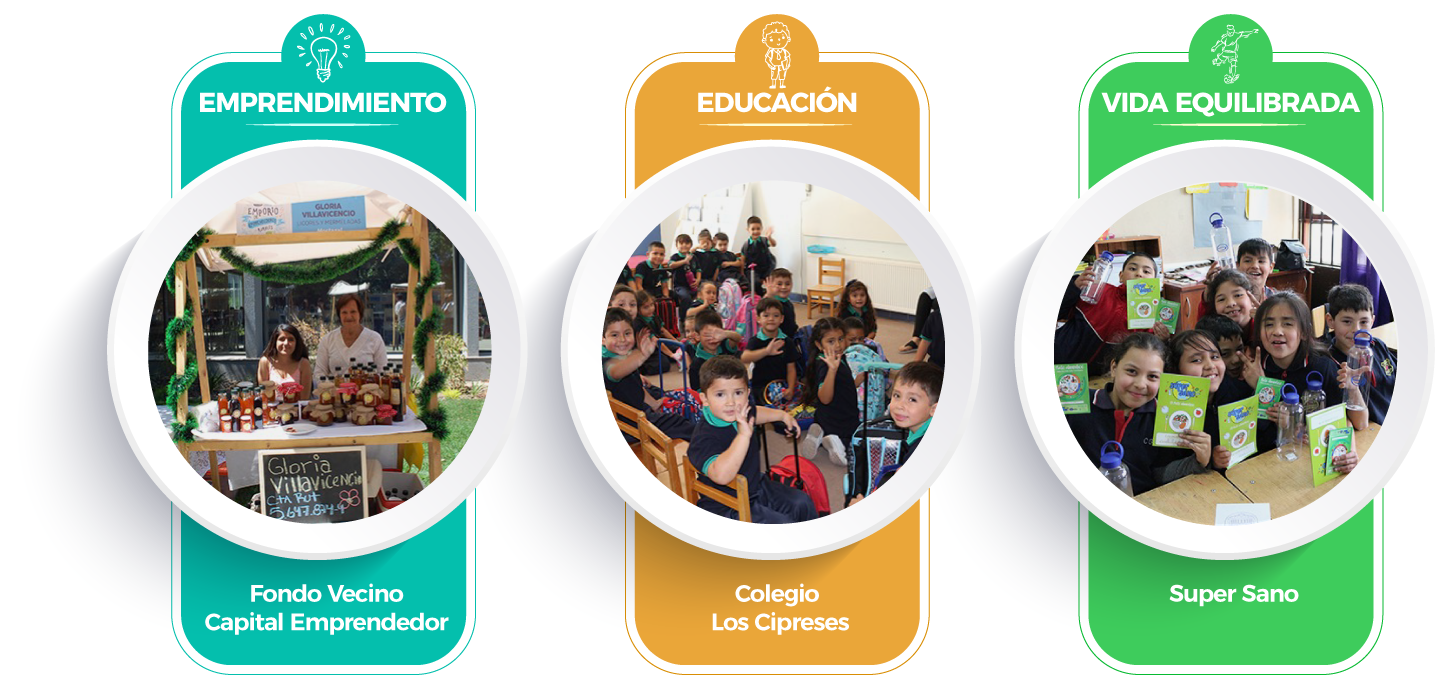
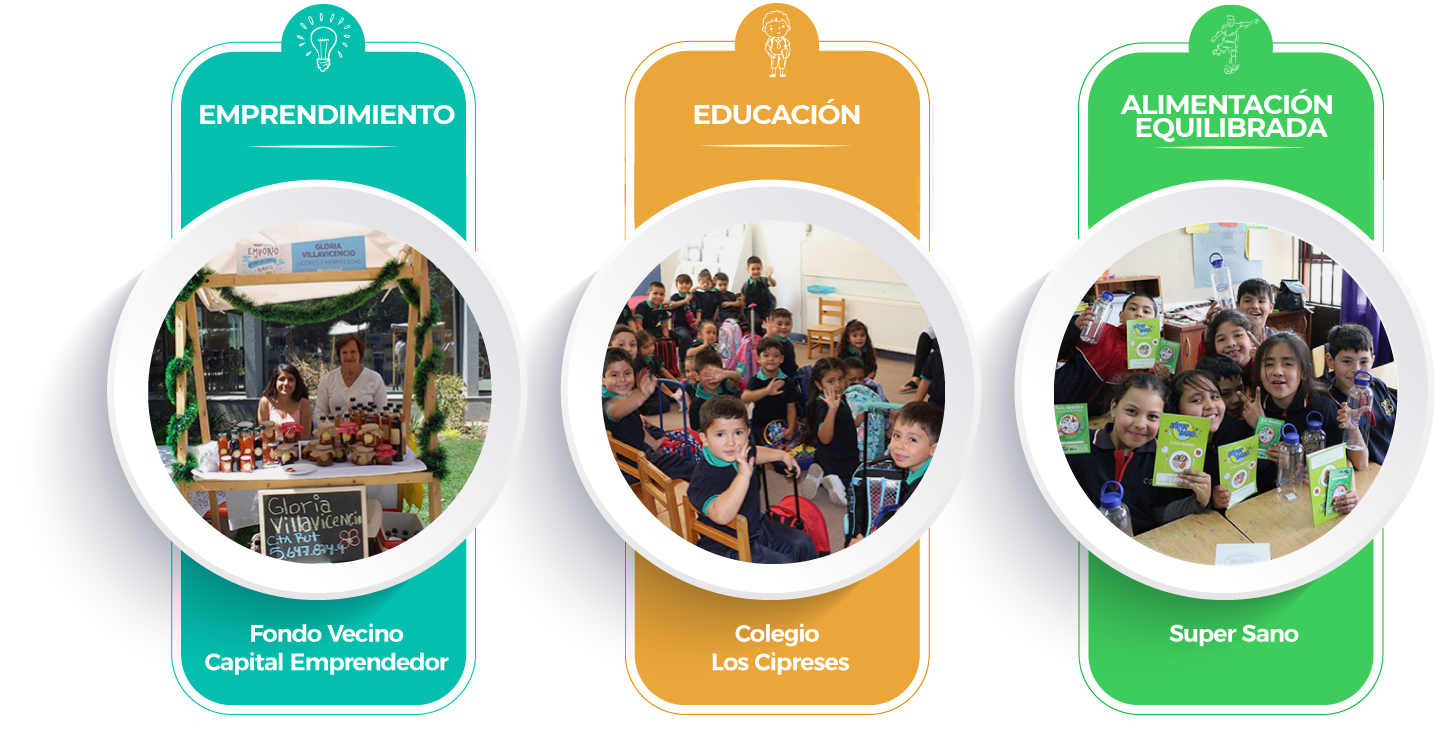
Cambios y ajustes 2022 + Disable download button & Right click en videos

diff --git a/src/components/Organism/ProduccionResponsable/Tratamiento/index.js b/src/components/Organism/ProduccionResponsable/Tratamiento/index.js
@@ -63,7 +63,12 @@ const ProcesosTratamiento = () => {
                   className={classes.gridContainer}
                 >
                   <ReactPlayer
-                    url="https://skyviewagrosuper.com/videos/produccion_responsable/ProduccionResponsable.mp4"
+                    // Disable download button
+                    config={{ file: { attributes: { controlsList: 'nodownload' } } }}
+
+                    // Disable right click
+                    onContextMenu={e => e.preventDefault()}                  
+                    url="https://skyviewagrosuper.com/videos/produccion_responsable/PRODUCCION_RESPONSABLE.mp4"
                     width="100%"
                     height="auto"
                     
@@ -71,7 +76,7 @@ const ProcesosTratamiento = () => {
                     controls
                   />
                   <Typography variant="h4" align="center" gutterBottom  className={classes.subtitle}>
-                    Nuestro objetico es fomentar el cuidado del medio ambiente y el usto eficiente de los recursos naturales. Incorporamos la mejor tecnología para cumplir con los más altos estándares y continuar produciendo de manera sustentable.
+                    Nuestro objetivo es fomentar el cuidado del medio ambiente y el usto eficiente de los recursos naturales. Incorporamos la mejor tecnología para cumplir con los más altos estándares y continuar produciendo de manera sustentable.
                   </Typography>
               </Grid>
               

diff --git a/src/components/Organism/ProduccionResponsable/Agua-2/index.js b/src/components/Organism/ProduccionResponsable/Agua-2/index.js
@@ -1,6 +1,7 @@
 import React from "react";
 import { Grid, Box, Typography, makeStyles } from "@material-ui/core";
 import BorderWrapper from "../../../Atoms/BorderWrapper";
+import reagua from "../../../../assets/re_agua.png";
 import cifras2 from "../../../../assets/cifras_sl7.png";
 import ReactPlayer from "react-player";
 
@@ -67,17 +68,19 @@ const Agua2 = () => {
                 alignItems='center'
                 justifyContent='center'
               >
-                <Grid item md={6}>
-                <ReactPlayer
-                      url='https://skyviewagrosuper.com/videos/produccion_responsable/REUTILIZACIONDELAGUA-2.mp4'
-                      width='100%'
-                      height='auto'
-                      className={classes.videoContainer}
-                      playing
-                      controls
-                    />
+                <Grid item md={5}>
+                  <Box
+                    component="img"
+                    alignItems="center"
+                    justifyContent="center"
+                    display="flex"
+                    marginLeft={"75px"}
+                    height="auto"
+                    src={reagua}
+                    width="90%"
+                  />
                 </Grid>
-                <Grid item md={6}>
+                <Grid item md={7}>
                   <Box component='img'  width="100%" src={cifras2} />
                 </Grid>
                 

diff --git a/src/components/Organism/Comunidad/VidaEquilibrada/index.js b/src/components/Organism/Comunidad/VidaEquilibrada/index.js
@@ -25,7 +25,7 @@ const useStyles = makeStyles((theme) => ({
     borderRadius:50,
     zIndex: -1,
   },
-  video:{
+  video: {
     borderRadius: 20,
     overflow: "hidden",
   },
@@ -47,16 +47,23 @@ const VidaEquilibrada = () => {
           <Grid container spacing={3} item>
             <Grid item xs={4}>
               <ReactPlayer
+                // Disable download button
+                config={{ file: { attributes: { controlsList: 'nodownload' } } }}
+
+                // Disable right click
+                onContextMenu={e => e.preventDefault()}
+                className={classes.video}
                 url="https://skyviewagrosuper.com/videos/comunidad/Super%20Sano%20Baja.mp4"
                 width="100%"
+                height="auto"
                 loop={true}
                 playing={true}
-                className={classes.video}
+                controls
               />
             </Grid>
             <Grid item xs={5} container direction="column">
             <Typography variant="h5" className={classes.tittle2}>
-                Vida Saludable
+                Vida Equilibrada
               </Typography>
               <Typography variant="h5" className={classes.tittle}>
                 Súper Sano

diff --git a/src/components/Organism/ProduccionResponsable/Eficiencia/index.js b/src/components/Organism/ProduccionResponsable/Eficiencia/index.js
@@ -136,6 +136,11 @@ const Eficiencia = () => {
               >
                 <Grid item md={6}>
                 <ReactPlayer
+                       // Disable download button
+                       config={{ file: { attributes: { controlsList: 'nodownload' } } }}
+
+                       // Disable right click
+                       onContextMenu={e => e.preventDefault()}                
                       url='https://skyviewagrosuper.com/videos/produccion_responsable/BIOMASA.mp4'
                       width='100%'
                       height='auto'
@@ -173,6 +178,11 @@ const Eficiencia = () => {
                     </Typography>
                   </div>  
                   <ReactPlayer
+                      // Disable download button
+                      config={{ file: { attributes: { controlsList: 'nodownload' } } }}
+
+                      // Disable right click
+                      onContextMenu={e => e.preventDefault()}                  
                       url='https://skyviewagrosuper.com/videos/produccion_responsable/BIOMASA%20BAJA.mp4'
                       width='50%'
                       height='auto'

diff --git a/src/components/Organism/Comunidad/Comunidades/index.js b/src/components/Organism/Comunidad/Comunidades/index.js
@@ -22,7 +22,7 @@ const useStyles = makeStyles((theme) => ({
   subtittle: {
     color: "#d98a08",
     textAlign: "center",
-    fontSize: 25,
+    fontSize: 30,
     marginBottom: 20,
   },
   icontext: {
@@ -44,7 +44,7 @@ const useStyles = makeStyles((theme) => ({
   line: {
     height: 300,
     width: "96.5%",
-    background: "#728292",
+    background: "#b4bbc4",
     position: "absolute",
     margin: "0 auto 0 auto",
     zIndex: -1,
@@ -62,7 +62,7 @@ const Proposito = () => {
           <Grid className={classes.grid} item xs={4} container direction="column">
           
             <Typography variant="h1" >
-              <Box lineHeight={2} textAlign="left" fontSize={15} color={"#fff"}  >
+              <Box lineHeight={2} textAlign="left" fontSize={18} color={"#fff"}  >
               Somos un equipo de profesionales comprometidos día a día en terreno. Para construir relaciones de confianza y transformarnos en puentes de comunicación con los vecinos y nuestras comunidades. 
               </Box>
             </Typography> 

diff --git a/src/components/Organism/ProduccionResponsable/Agua-1/index.js b/src/components/Organism/ProduccionResponsable/Agua-1/index.js
@@ -103,7 +103,7 @@ const Agua1 = () => {
         >
           <Box width='100%' minWidth={400}>
           <div className={classes.titleContainer}>
-            <Typography className={classes.subtitle} variant='h5'>Reutilización de Agua - Plantas Industriales</Typography>
+            <Typography className={classes.subtitle} variant='h5'>Eficiencia Energética</Typography>
             </div>
             <Grid
               container
@@ -121,6 +121,11 @@ const Agua1 = () => {
               >
                 <Grid item md={6}>
                 <ReactPlayer
+                   // Disable download button
+                    config={{ file: { attributes: { controlsList: 'nodownload' } } }}
+
+                   // Disable right click
+                   onContextMenu={e => e.preventDefault()}
                       url='https://skyviewagrosuper.com/videos/produccion_responsable/REUTILIZACIONDELAGUA-1.mp4'
                       width='100%'
                       height='auto'

diff --git a/src/components/Organism/Comunidad/Educacion/index.js b/src/components/Organism/Comunidad/Educacion/index.js
@@ -40,15 +40,21 @@ const Educacion = () => {
           className={classes.grid}
         >
              <div className={classes.line}> </div>
-          <Grid container spacing={1} item>
+          <Grid container spacing={3} item>
             <Grid item xs={4}>
             <ReactPlayer
+                className={classes.video}
+                // Disable download button
+                config={{ file: { attributes: { controlsList: 'nodownload' } } }}
+
+                // Disable right click
+                onContextMenu={e => e.preventDefault()}
                 url="https://skyviewagrosuper.com/videos/comunidad/Colegio%20Los%20Cipreses%20Baja.mp4"
                 width="100%"
                 height="auto"
                 loop={true}
-                playing={true}
-                className={classes.video}
+                controls
+                
               />
             </Grid>
             <Grid item xs={5} container direction="column">

diff --git a/src/components/Organism/WelcomeSection/index.js b/src/components/Organism/WelcomeSection/index.js
@@ -79,7 +79,12 @@ const WelcomeSection = () => {
         <Modal open={ sessionStorage["PopupShown"] === "yes" ? false : open } onClose={handleClose} className="modal">
           <div style={{ borderRadius: 10, outline: 0 , width:"80%"}}>
             <ReactPlayer
-              url="https://skyviewagrosuper.com/videos/intro-skyview.mp4"
+              // Disable download button
+              config={{ file: { attributes: { controlsList: 'nodownload' } } }}
+
+              // Disable right click
+              onContextMenu={e => e.preventDefault()}            
+              url="https://skyviewagrosuper.com/videos/intro.mp4"
               volume={0.2}
               width="100%"
               height="100%"

diff --git a/src/components/Screens/Libertades/index.js b/src/components/Screens/Libertades/index.js
@@ -56,7 +56,12 @@ const Libertades = () => {
               alignItems="center"
             >
               <ReactPlayer
-                url="https://skyviewagrosuper.com/videos/nuestras_granjas/Bienestar%20Animal.mp4"
+                // Disable download button
+                config={{ file: { attributes: { controlsList: 'nodownload' } } }}
+
+                // Disable right click
+                onContextMenu={e => e.preventDefault()}              
+                url="https://skyviewagrosuper.com/videos/nuestras_granjas/Bienestar.mp4"
                 width="100%"
                 height="100%"
                 className={classes.video}

diff --git a/src/components/Organism/Comunidad/Voluntario/index.js b/src/components/Organism/Comunidad/Voluntario/index.js
@@ -21,6 +21,11 @@ const Voluntario = () => {
         <Grid container className={classes.grid} spacing={3} justifyContent="center"  alignItems="center">
           <Grid item xs={7} container direction="column" alignItems="center" justifyContent="center">
              <ReactPlayer
+             // Disable download button
+             config={{ file: { attributes: { controlsList: 'nodownload' } } }}
+
+             // Disable right click
+             onContextMenu={e => e.preventDefault()}
               url="https://skyviewagrosuper.com/videos/comunidad/VoluntariadoAS.mp4"
               width="100%"
               height="auto"

diff --git a/src/components/Organism/Planta/Protocolos/index.js b/src/components/Organism/Planta/Protocolos/index.js
@@ -90,6 +90,11 @@ const Protocolos = () => {
               <Grid item xs={12} md={8}>
                 <Grid item xs={12} justifyContent="center" alignItems="center">
                   <ReactPlayer
+                  // Disable download button
+                config={{ file: { attributes: { controlsList: 'nodownload' } } }}
+
+                // Disable right click
+                onContextMenu={e => e.preventDefault()}
                     url="https://skyviewagrosuper.com/videos/plantas_industriales/Agrosuper%20-%20Medidas%20de%20Seguridad%20FHD_V05.mp4"
                     width="100%"
                     height="100%"

diff --git a/src/components/Organism/ProduccionResponsable/Suelos/index.js b/src/components/Organism/ProduccionResponsable/Suelos/index.js
@@ -139,6 +139,11 @@ const Suelos = () => {
                            src={icnbio} />Bioestabilizado</Typography>
                   </div>
                   <ReactPlayer
+                      // Disable download button
+                      config={{ file: { attributes: { controlsList: 'nodownload' } } }}
+
+                      // Disable right click
+                      onContextMenu={e => e.preventDefault()}                  
                       url='https://skyviewagrosuper.com/videos/produccion_responsable/BIOESTABILIZADO%20BAJA.mp4'
                       width='25%'
                       height='auto'
